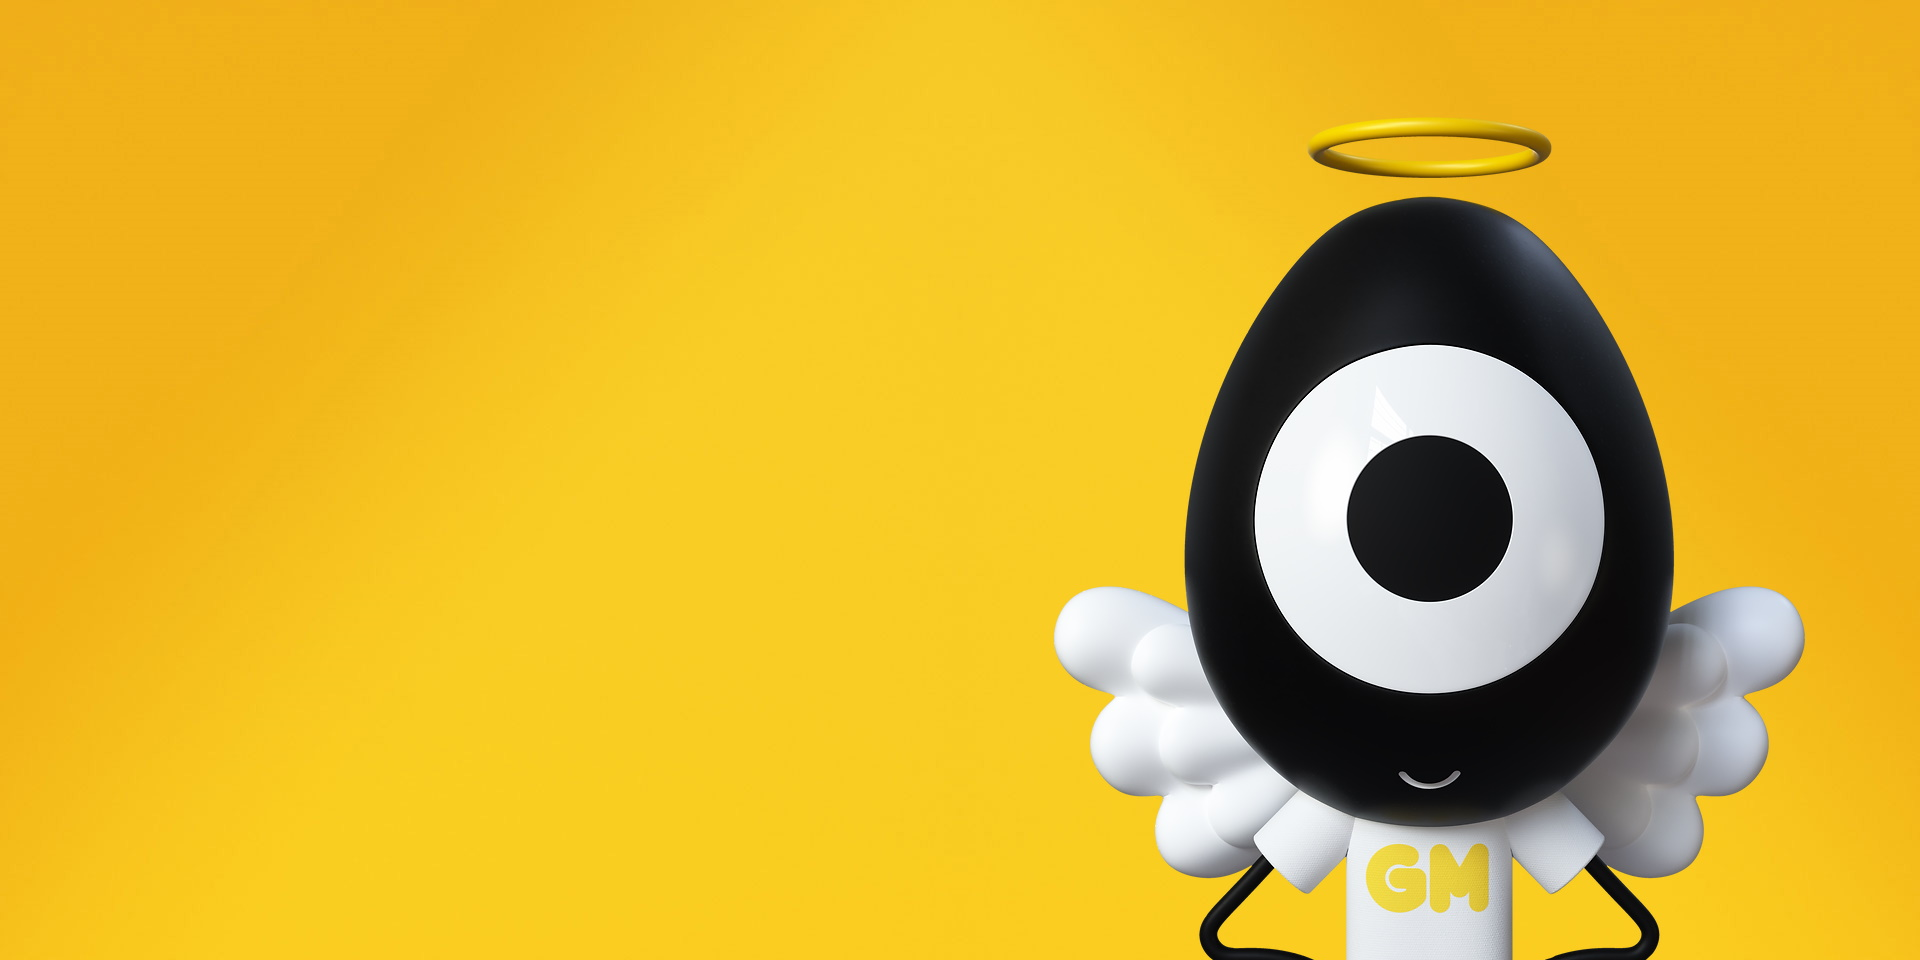
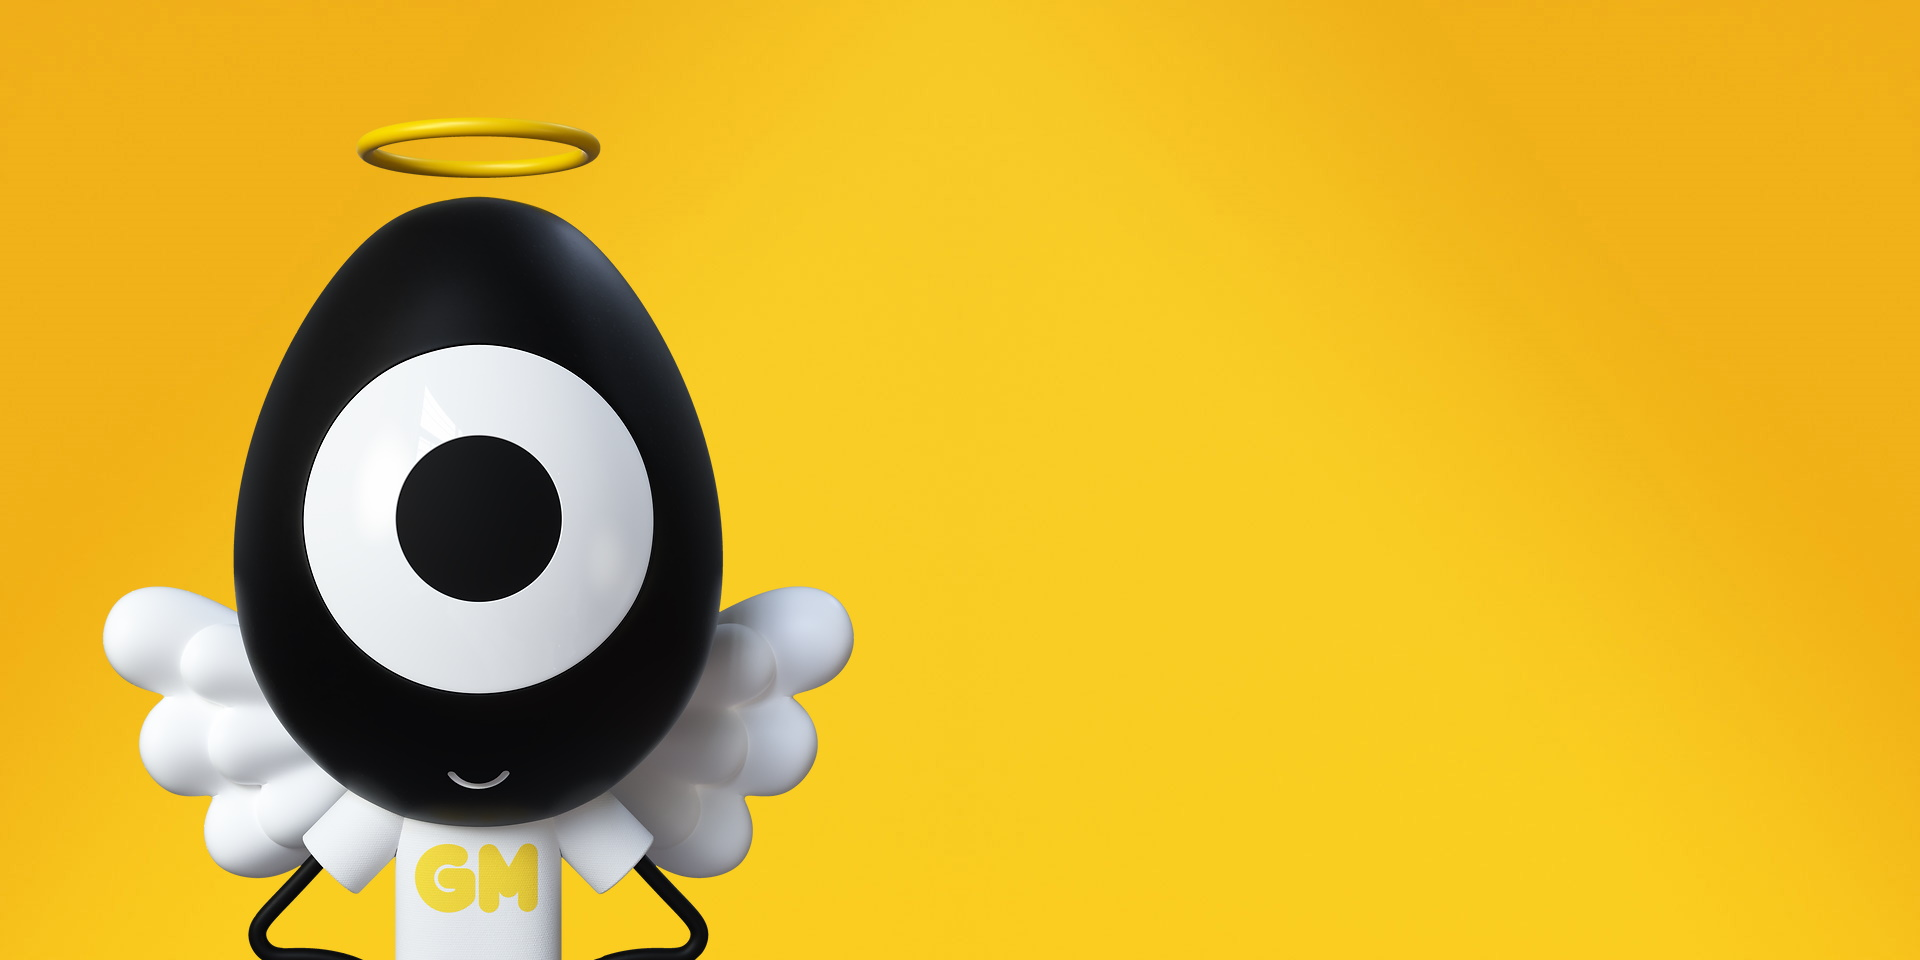
swap text and image position in Eggs4Good section

diff --git a/index.html b/index.html
@@ -287,7 +287,7 @@ https://github.com/awj5
 
         <div class="section" id="section-13">
             <div class="section-wrapper">
-                <div class="section-column">
+                <div class="section-column section-column-right">
                     <h2>Eggs4Good</h2>
 
                     <div id="section-13-eggs4good">
@@ -297,7 +297,7 @@ https://github.com/awj5
                 </div>
             </div>
 
-            <img src="#" class="section-bg section-bg-right" alt="" />
+            <img src="#" class="section-bg" alt="" />
         </div>
 
         <!-- Section 8 -->
